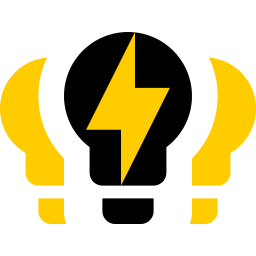
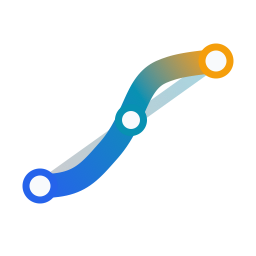
feat(brand): add original Lightener Studio assets
Why: replace upstream-derived placeholder art with owned local HA/HACS brand assets.

diff --git a/tests/components/lightener_studio/test_brand_assets.py b/tests/components/lightener_studio/test_brand_assets.py
@@ -1,0 +1,219 @@
+"""Tests for Home Assistant/HACS brand asset invariants."""
+
+from __future__ import annotations
+
+import hashlib
+import zlib
+from dataclasses import dataclass
+from pathlib import Path
+
+ROOT = Path(__file__).resolve().parents[3]
+BRAND_DIR = ROOT / "custom_components" / "lightener_studio" / "brand"
+
+EXPECTED_DIMENSIONS = {
+    "icon.png": (256, 256),
+    "[email redacted]": (512, 512),
+    "dark_icon.png": (256, 256),
+    "[email redacted]": (512, 512),
+    "logo.png": (768, 256),
+    "[email redacted]": (1536, 512),
+    "dark_logo.png": (768, 256),
+    "[email redacted]": (1536, 512),
+}
+
+OLD_UPSTREAM_DERIVED_HASHES = {
+    # Previous bulb/bolt/crescent assets. The new Lightener Studio brand must
+    # stay original and must not accidentally sync back to these files.
[4 lines of base64/hex data omitted]
+}
+
+PNG_SIGNATURE = b"\x89PNG\r\n\x1a\n"
+
+
+@dataclass(frozen=True)
+class PngImage:
+    data: bytes
+    width: int
+    height: int
+    bit_depth: int
+    color_type: int
+    interlace: int
+    pixels: bytes
+
+
+def _read_png(path: Path) -> PngImage:
+    data = path.read_bytes()
+    assert data.startswith(PNG_SIGNATURE), f"{path.name} is not a PNG"
+
+    width = height = bit_depth = color_type = interlace = None
+    idat_chunks: list[bytes] = []
+    offset = len(PNG_SIGNATURE)
+
+    while offset < len(data):
+        length = int.from_bytes(data[offset : offset + 4], "big")
+        chunk_type = data[offset + 4 : offset + 8]
+        chunk = data[offset + 8 : offset + 8 + length]
+        offset += 12 + length
+
+        if chunk_type == b"IHDR":
+            width = int.from_bytes(chunk[0:4], "big")
+            height = int.from_bytes(chunk[4:8], "big")
+            bit_depth = chunk[8]
+            color_type = chunk[9]
+            interlace = chunk[12]
+        elif chunk_type == b"IDAT":
+            idat_chunks.append(chunk)
+        elif chunk_type == b"IEND":
+            break
+
+    assert width is not None
+    assert height is not None
+    assert bit_depth is not None
+    assert color_type is not None
+    assert interlace is not None
+    assert idat_chunks, f"{path.name} has no image data"
+
+    assert bit_depth == 8, f"{path.name} must use 8-bit channels"
+    assert color_type == 6, f"{path.name} must be RGBA"
+    assert interlace == 0, f"{path.name} must be directly decodable by this test"
+
+    return PngImage(
+        data=data,
+        width=width,
+        height=height,
+        bit_depth=bit_depth,
+        color_type=color_type,
+        interlace=interlace,
+        pixels=_decode_rgba_pixels(width, height, b"".join(idat_chunks)),
+    )
+
+
+def _decode_rgba_pixels(width: int, height: int, idat_data: bytes) -> bytes:
+    raw = zlib.decompress(idat_data)
+    channels = 4
+    stride = width * channels
+    prior = bytearray(stride)
+    decoded = bytearray(width * height * channels)
+    source = 0
+    target = 0
+
+    for _y in range(height):
+        filter_type = raw[source]
+        source += 1
+        row = bytearray(raw[source : source + stride])
+        source += stride
+
+        if filter_type == 1:
+            for index in range(stride):
+                left = row[index - channels] if index >= channels else 0
+                row[index] = (row[index] + left) & 0xFF
+        elif filter_type == 2:
+            for index in range(stride):
+                row[index] = (row[index] + prior[index]) & 0xFF
+        elif filter_type == 3:
+            for index in range(stride):
+                left = row[index - channels] if index >= channels else 0
+                up = prior[index]
+                row[index] = (row[index] + ((left + up) // 2)) & 0xFF
+        elif filter_type == 4:
+            for index in range(stride):
+                left = row[index - channels] if index >= channels else 0
+                up = prior[index]
+                upper_left = prior[index - channels] if index >= channels else 0
+                row[index] = (row[index] + _paeth(left, up, upper_left)) & 0xFF
+        else:
+            assert filter_type == 0, f"unsupported PNG filter {filter_type}"
+
+        decoded[target : target + stride] = row
+        target += stride
+        prior = row
+
+    return bytes(decoded)
+
+
+def _paeth(left: int, up: int, upper_left: int) -> int:
+    estimate = left + up - upper_left
+    left_distance = abs(estimate - left)
+    up_distance = abs(estimate - up)
+    upper_left_distance = abs(estimate - upper_left)
+
+    if left_distance <= up_distance and left_distance <= upper_left_distance:
+        return left
+    if up_distance <= upper_left_distance:
+        return up
+    return upper_left
+
+
+def _alpha_at(image: PngImage, x: int, y: int) -> int:
+    return image.pixels[((y * image.width + x) * 4) + 3]
+
+
+def _alpha_bbox(image: PngImage) -> tuple[int, int, int, int]:
+    min_x = image.width
+    min_y = image.height
+    max_x = -1
+    max_y = -1
+
+    for y in range(image.height):
+        for x in range(image.width):
+            if _alpha_at(image, x, y) == 0:
+                continue
+            min_x = min(min_x, x)
+            min_y = min(min_y, y)
+            max_x = max(max_x, x)
+            max_y = max(max_y, y)
+
+    assert max_x >= 0 and max_y >= 0, "PNG has no visible pixels"
+    return min_x, min_y, max_x, max_y
+
+
+def test_brand_assets_have_required_dimensions_and_format() -> None:
+    """Keep local HA/HACS brand files compatible with the manifest domain."""
+    assert {path.name for path in BRAND_DIR.glob("*.png")} == set(EXPECTED_DIMENSIONS)
+
+    for filename, dimensions in EXPECTED_DIMENSIONS.items():
+        image = _read_png(BRAND_DIR / filename)
+
+        assert (image.width, image.height) == dimensions
+        if "logo" in filename:
+            assert image.width > image.height
+            shortest_side = min(dimensions)
+            if "@2x" in filename:
+                assert 256 <= shortest_side <= 512
+            else:
+                assert 128 <= shortest_side <= 256
+
+
+def test_brand_assets_are_transparent_and_trimmed() -> None:
+    """Avoid padded or flattened PNGs that fail Home Assistant brand review rules."""
+    for filename in EXPECTED_DIMENSIONS:
+        image = _read_png(BRAND_DIR / filename)
+
+        assert _alpha_at(image, 0, 0) == 0
+        assert _alpha_at(image, image.width - 1, 0) == 0
+        assert _alpha_at(image, 0, image.height - 1) == 0
+        assert _alpha_at(image, image.width - 1, image.height - 1) == 0
+
+        min_x, min_y, max_x, max_y = _alpha_bbox(image)
+        margins = (
+            min_x,
+            min_y,
+            image.width - 1 - max_x,
+            image.height - 1 - max_y,
+        )
+        max_allowed_margin = round(min(image.width, image.height) * 0.30)
+
+        assert max(margins) <= max_allowed_margin, (
+            f"{filename} has too much transparent padding: {margins}"
+        )
+
+
+def test_brand_assets_do_not_reuse_old_upstream_derived_art() -> None:
+    """Block accidental reintroduction of the old bulb/bolt/crescent artwork."""
+    for filename in EXPECTED_DIMENSIONS:
+        digest = hashlib.sha256((BRAND_DIR / filename).read_bytes()).hexdigest()
+
+        assert digest not in OLD_UPSTREAM_DERIVED_HASHES

diff --git a/CONTRIBUTING.md b/CONTRIBUTING.md
@@ -261,19 +261,35 @@ fixture's `__LIGHTENER_CARD_READY__` setup block.
 
 ### HACS brand assets
 
-The brand images live in `custom_components/lightener_studio/brand/`.
+Home Assistant 2026.3+ and HACS read custom integration brand images directly
+from `custom_components/lightener_studio/brand/`. Do not open a new
+`home-assistant/brands` `custom_integrations/lightener_studio` PR for this
+integration unless the goal is explicitly to create a known auto-close record.
 
 | File | HACS usage | Required dimensions |
 |---|---|---|
-| `icon.png` | Square catalog icon in the HACS integration list | 256 × 256 px, RGBA PNG |
-| `logo.png` | Wider logo shown on the integration detail page | No fixed ratio, but ~400 × 200 px horizontal banner is conventional |
+| `icon.png` | Square catalog/integration icon | 256 × 256 px, transparent RGBA PNG |
+| `[email redacted]` | hDPI square icon | 512 × 512 px, transparent RGBA PNG |
+| `dark_icon.png` | Dark-background square icon | 256 × 256 px, transparent RGBA PNG |
+| `[email redacted]` | hDPI dark-background square icon | 512 × 512 px, transparent RGBA PNG |
+| `logo.png` | Landscape integration logo | 768 × 256 px, transparent RGBA PNG |
+| `[email redacted]` | hDPI landscape integration logo | 1536 × 512 px, transparent RGBA PNG |
+| `dark_logo.png` | Dark-background landscape logo | 768 × 256 px, transparent RGBA PNG |
+| `[email redacted]` | hDPI dark-background landscape logo | 1536 × 512 px, transparent RGBA PNG |
 
-Replace either file with a new PNG of the same name. HACS reads them at
-install/update time from the integration directory — no code change needed.
+Editable vector sources live in `images/lightener*.svg`; exported PNG copies
+also live in `images/` for review. The committed integration files under
+`custom_components/lightener_studio/brand/` are the files that ship to users.
 
-When replacing `logo.png`, use a horizontal variant (wordmark or icon + name
-side by side) rather than a square copy of `icon.png`. HACS renders the logo
-at a wider aspect ratio; a square image will appear pillar-boxed.
+Brand art must stay original. Do not reuse, trace, upscale, or adapt Home
+Assistant imagery, the upstream Lightener bulb/bolt/crescent artwork, or a
+generic bulb/bolt/house icon. The current mark uses abstract
+brightness-response curve geometry only.
+
+When changing the brand art, export transparent, trimmed PNGs from the SVG
+sources and run `scripts/test-python`. The asset test checks file names,
+dimensions, alpha, trimming, hDPI sizing, landscape logos, and accidental
+reintroduction of the old upstream-derived image hashes.
 
 ## Translations
 

diff --git a/DESIGN.md b/DESIGN.md
@@ -10,6 +10,30 @@ This document captures the current visual system for the Lightener curve editor 
 - Favor compact, scannable controls. The editor is often used from tablets and narrow dashboards, so labels stay short and actions stay physically close to the graph.
 - Make color supportive, not exclusive. Curves use color, dash patterns, shape markers, and labels together so the UI remains legible for colorblind and assistive-tech users.
 
+## Brand identity
+
+The brand should leave one memory: the room follows you. Lightener Studio is not
+a generic light switch, bulb, or automation engine; it is the place where a room's
+brightness response is shaped by hand and then felt immediately.
+
+The logo territory is original abstract brightness-response geometry: a rising
+curve, visible control points, and a quiet reference line. This keeps the mark
+connected to the editor without leaking implementation language into the product
+voice. The cyan/blue curve carries continuity with the app and public preview;
+a restrained warm endpoint may suggest the final light in the room, but warm
+glow should stay secondary.
+
+Brand art must not reuse, trace, upscale, or adapt:
+
+- Home Assistant house/network imagery or official Home Assistant marks.
+- The upstream Lightener bulb/bolt/crescent artwork.
+- Generic bulb, lightning bolt, or smart-home house icons.
+
+The editable brand sources live in `images/lightener*.svg`. Exported local
+Home Assistant/HACS PNGs live in `custom_components/lightener_studio/brand/`.
+The committed PNGs are transparent, trimmed, and include light/dark icon and
+landscape logo variants.
+
 ## Voice and vocabulary
 
 ### Lead with the light